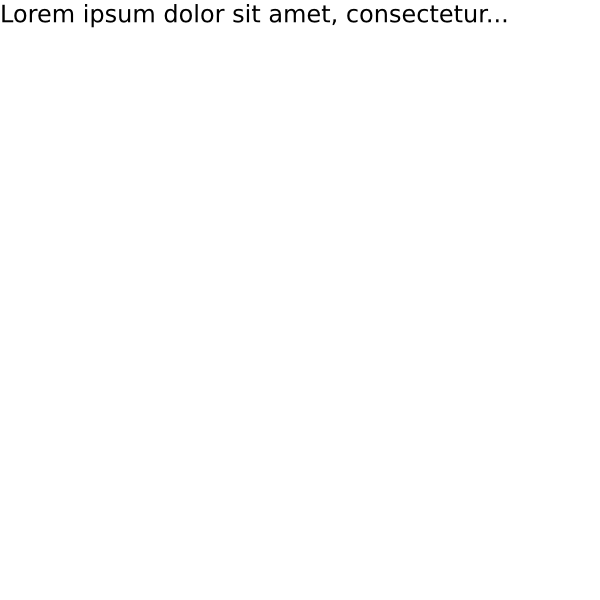
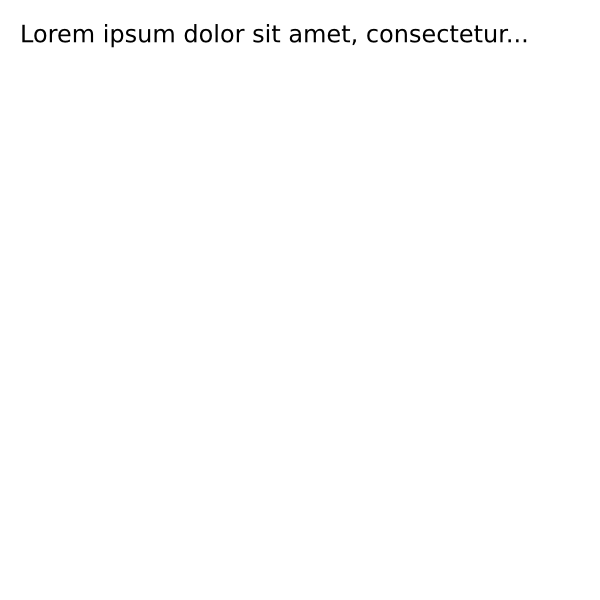
Use Paint.Translate in text example

Changed region(s): [[0.0, 0.0, 0.84, 0.09]]

diff --git a/example/text/main.go b/example/text/main.go
@@ -50,9 +50,9 @@ func main() {
 	// if err := text.WrapMode(tvg.TEXT_WRAP_WORD); err != nil {
 	// 	panic(err)
 	// }
-	// if err := text.Layout(float32(width), float32(height)); err != nil {
-	// 	panic(err)
-	// }
+	if err := text.Translate(20, 20); err != nil {
+		panic(err)
+	}
 	// if err := text.SetText("Lorem ipsum dolor sit amet, consectetur adipiscing elit, sed do eiusmod tempor incididunt ut labore et dolore magna aliqua."); err != nil {
 	if err := text.SetText("Lorem ipsum dolor sit amet, consectetur..."); err != nil {
 		panic(err)
